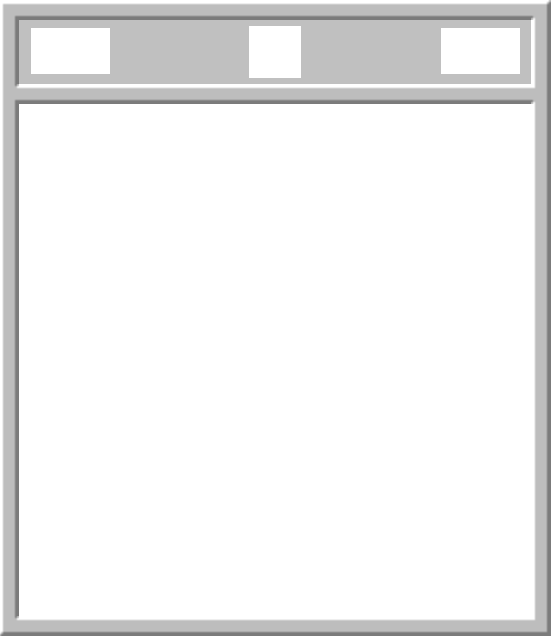
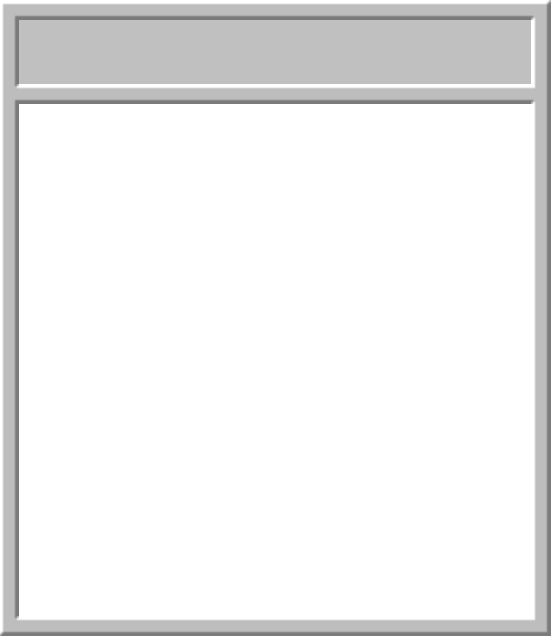
add: Сделал весь визуал игры     * Зaменил работу с background-position на background-image     * Добавил отдельные иконки каждого элемента

Changed region(s): [[0.0306, 0.0312, 0.214, 0.125], [0.795, 0.0312, 0.9478, 0.125], [0.4281, 0.0312, 0.5504, 0.125]]

diff --git a/css/style.css b/css/style.css
@@ -1,33 +1,25 @@
 .field {
     display: grid;
     grid-template-columns: repeat(16, 16px);
+    margin-left: -2px;
 }
 
 button {
     height: 16px;
     font-size: 10px;
-    background-image: url(../img/sprites.png);
-    background-position: 0 33px;
-    /* background-position: -85px 33px; |бомба| */
-    /* background-position: -17px 33px; |0| */
-    /* background-position: 0px 16px;   |1| */
-    /* background-position: -17px 16px; |2| */
-    /* background-position: -34px 16px; |3| */
-    /* background-position: -51px 16px; |4| */
-    /* background-position: -68px 16px; |5| */
-    /* background-position: -85px 16px; |6| */
-    /* background-position: -102px 16px; |7| */
-    /* background-position: -119px 16px; |8| */
-    /* background-position: -34px 33px; |Flag| */
+    background-image: url(../img/closed_cell.png);
     border: none;
     cursor: pointer;
 }
 
 .container {
     display: grid;
-    grid-row-gap: 5px;
+    grid-row-gap: 9.5px;
     justify-content: center;
-    background-color: rgb(212, 208, 208);
+    background-image: url(../img/minesweeper.png);
+    background-repeat: no-repeat;
+    background-position: center 5px;
+    background-size: 51.2%;
     width: 500px;
     padding: 20px;
 }
@@ -36,12 +28,16 @@ button {
     display: grid;
     grid-template-columns: 0.5fr 1fr 0.5fr;
     justify-items: center;
+    margin-top: -1px;
+    background-image: url('../img/menu_background.png');
+    background-repeat: no-repeat;
+    background-position: center center;
 }
 
 .smile {
-    width: 25px;
-    height: 25px;
-    background-position: -1px 59px;
+    width: 26px;
+    height: 26px;
+    background-image: url('../img/smile.png');
 }
 
 /*Секундомер*/
@@ -53,4 +49,9 @@ button {
     width: 15px;
     height: 25px;
     position: 10px 10px;
+}
+
+/*Счётчик бомб*/
+.bombCounter {
+    display: flex;
 }

diff --git a/js/rightClickLogic.js b/js/rightClickLogic.js
@@ -25,7 +25,7 @@ const rightClick = (index, cell, openedCount, bombCount) => {
         // Победа, если последним дейтсивем поставлен последний флаг
         if (openedCount <= bombCount && flagsCount <= 0) {
             const smile = document.querySelector('.smile');
-            smile.style.backgroundPosition = '-82px 59px';
+            smile.style.backgroundImage = 'url(../img/smile_win.png)';
             flagsCount = bombCount;
             alert('WIN!!!');
         }
@@ -49,19 +49,19 @@ const rightClick = (index, cell, openedCount, bombCount) => {
 // Отрисовывает флаг при ПКМ (Правая Кнопка Мыши)
 function flagMark(cell) {
     if (cell.disabled === true) return;
-    cell.style.backgroundPosition = '-34px 33px';
+    cell.style.backgroundImage = 'url(../img/flag.png)';
 }
 
 // Отрисовывает вопросительный знак при ПКМ
 function QuestionMark(cell) {
     if (cell.disabled === true) return;
-    cell.style.backgroundPosition = '-51px 33px';
+    cell.style.backgroundImage = 'url(../img/question_mark.png)';
 }
 
 // Отрисовывает закрытую ячейку при ПКМ
 function emptyMark(cell) {
     if (cell.disabled === true) return;
-    cell.style.backgroundPosition = '0 33px';
+    cell.style.backgroundImage = 'url(../img/closed_cell.png)';
 }
 
 // Восстановление исходного количества флажков при начале новой игры

diff --git a/index.html b/index.html
@@ -11,8 +11,14 @@
     <body>
         <div class="container">
             <div class="menu">
-                <div class="bombCounter"></div>
+                <div class="bombCounter">
+                    <img class="countdown_item" src="img/0.png" alt="Image not found">
+                    <img class="countdown_item" src="img/4.png" alt="Image not found">
+                    <img class="countdown_item" src="img/0.png" alt="Image not found">
+                </div>
+
                 <button class="smile"></button>
+
                 <div class="countdown">
                     <img class="countdown_item" id="sec1" src="img/0.png" alt="Image not found">
                     <img class="countdown_item" id="sec2" src="img/0.png" alt="Image not found">
